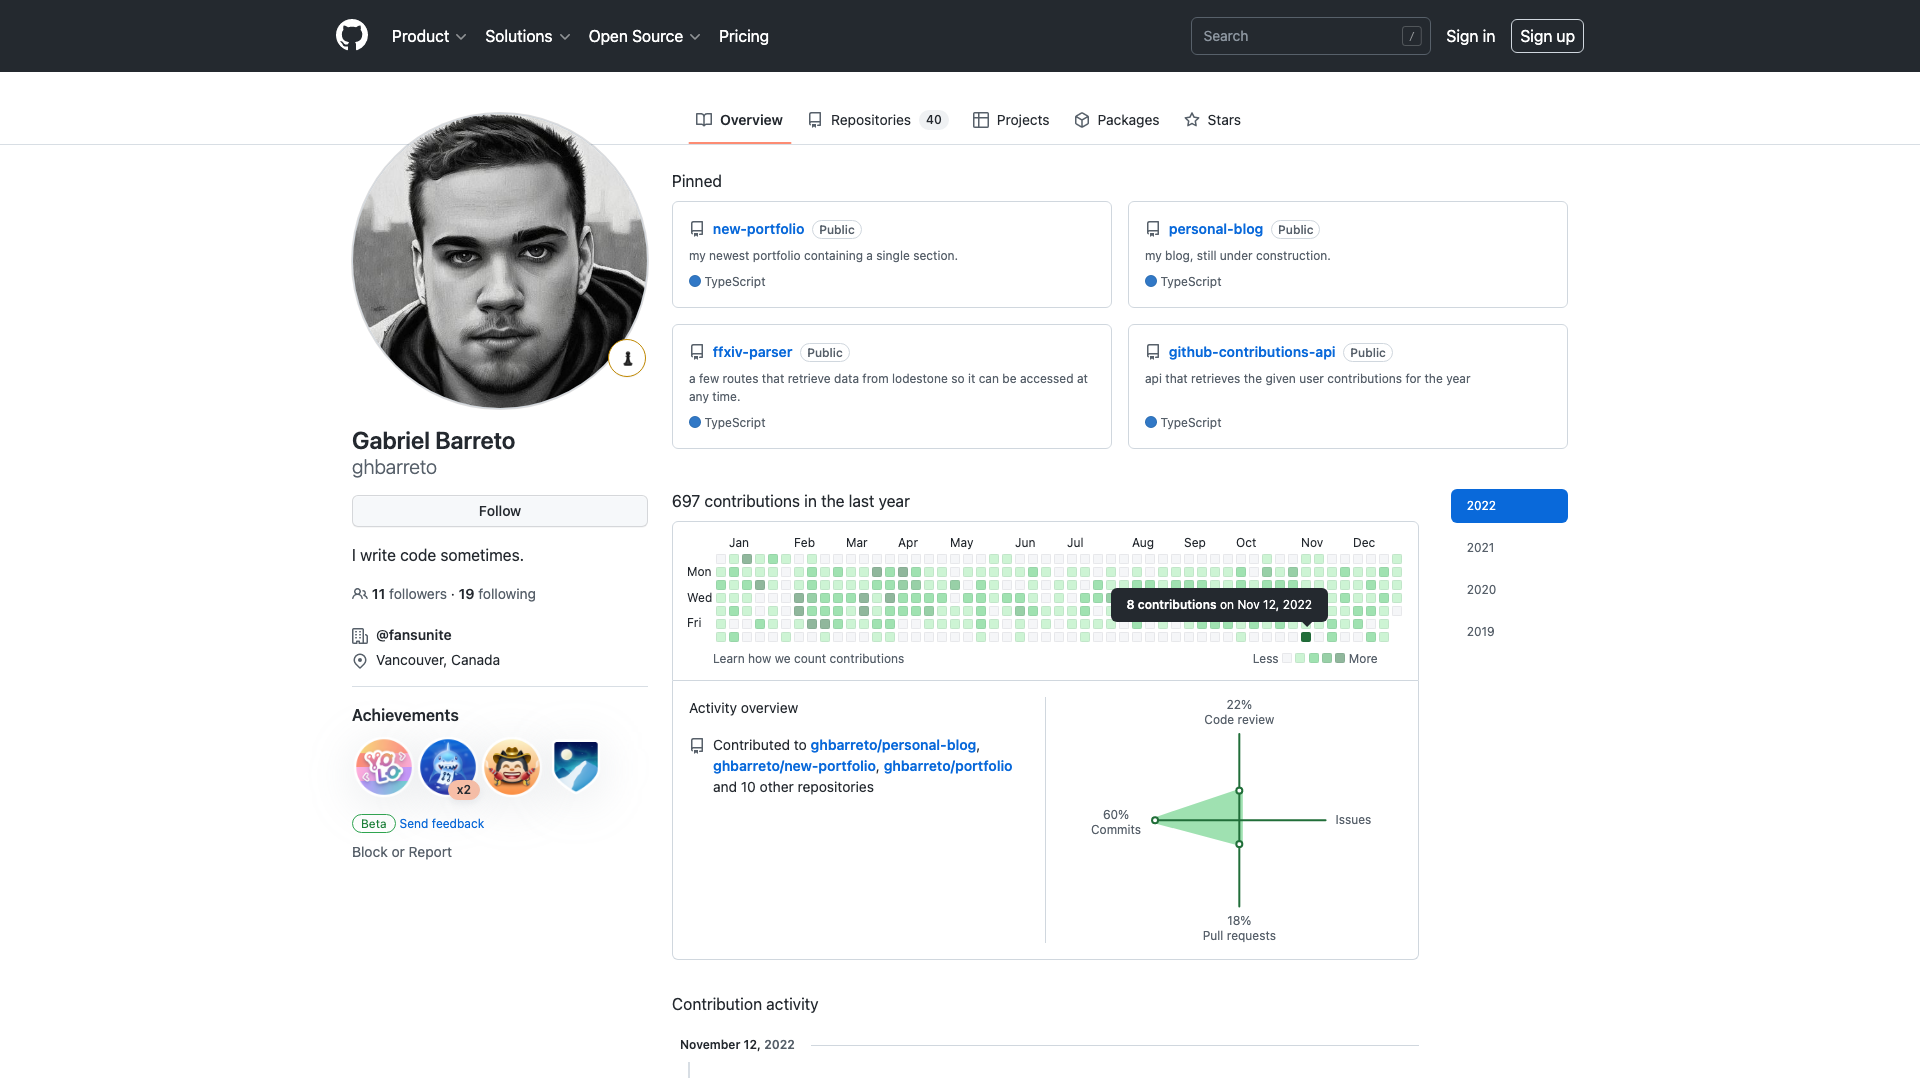
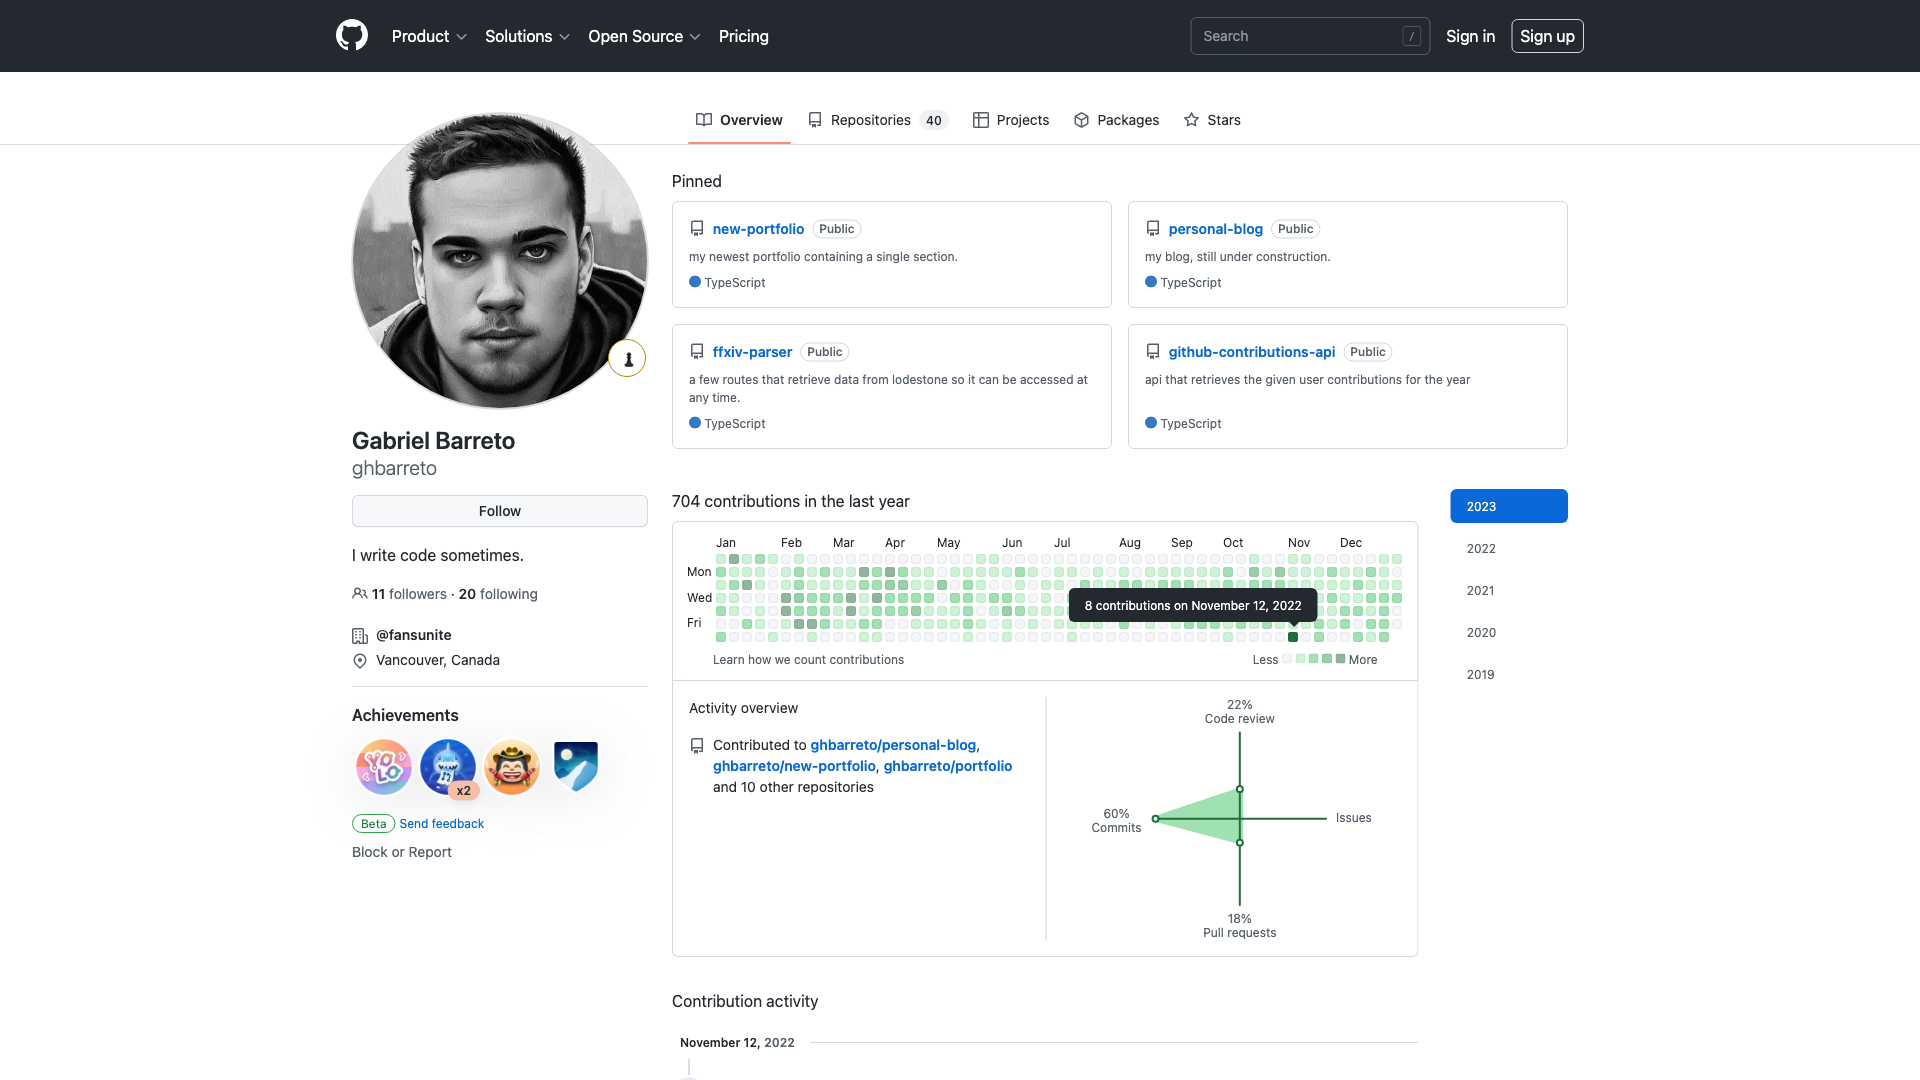
fixed contributions for 2023

diff --git a/app.ts b/app.ts
@@ -30,10 +30,11 @@ app.get('/api/contributions', async (req, res) => {
 
             Array.from(rects).forEach((rect: SVGElement) => {
                 const date_contributed = rect.getAttribute('data-date');
-                const count_contributed = rect.getAttribute('data-count');
+                const count_contributed = rect.innerHTML.split('')[0];
+                const res = String(count_contributed) === 'N' ? 0 : Number(count_contributed);
 
                 return contributions.push({
-                    [date_contributed]: Number(count_contributed),
+                    [date_contributed]: res,
                 });
             });
 
